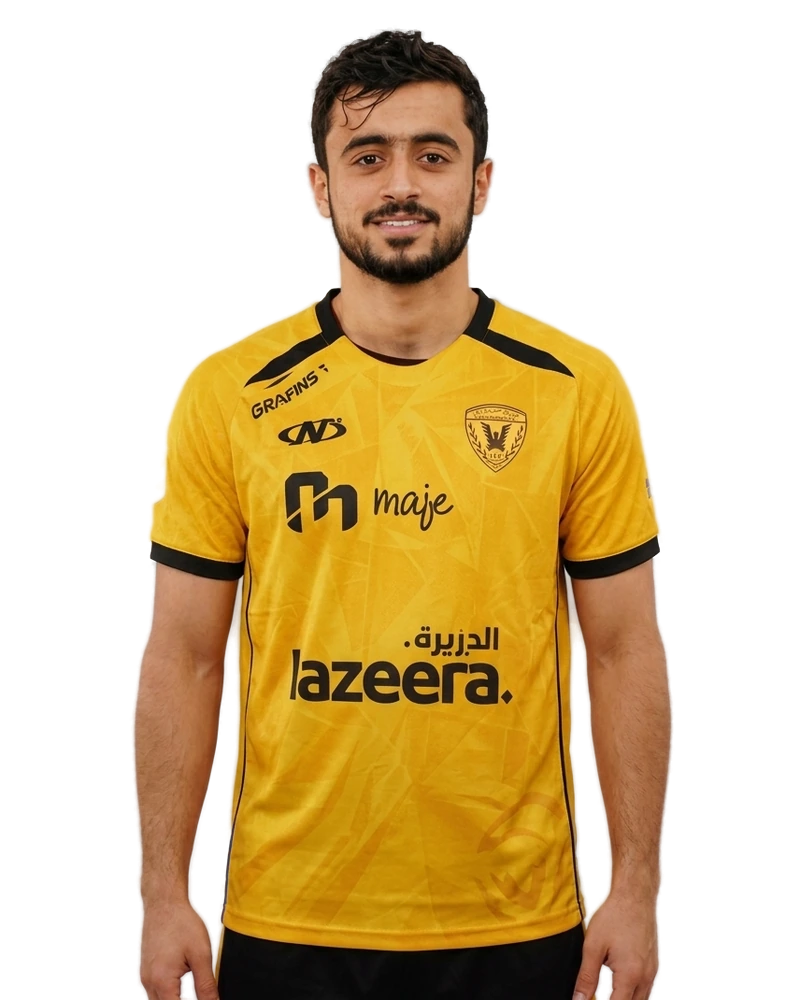
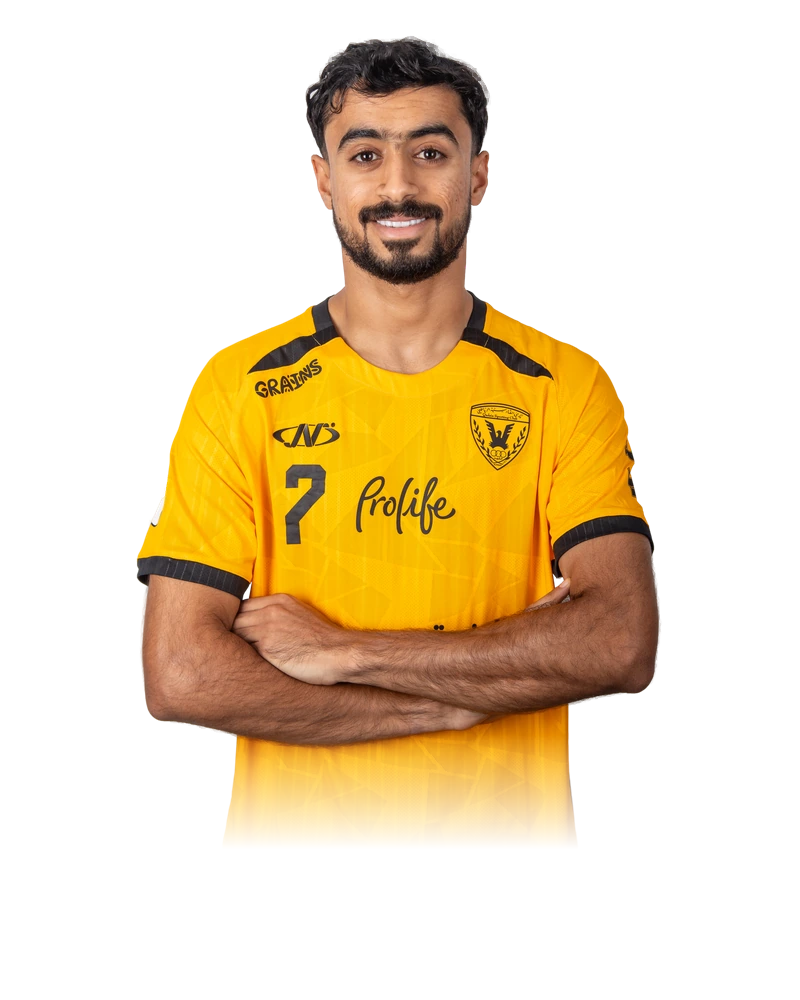
القادسية: صورة ناصر الرواحي الجديدة من جلسة تصوير النادي (رقم 7) + نسخة _m — صور ?v=35، PLAYER_PHOTOS_VER 35، sw -358

diff --git a/analysis.js b/analysis.js
@@ -28,7 +28,7 @@ const norm = s => String(s||"").normalize("NFKC")
   .toLowerCase().replace(/\s+/g," ").trim();
 function face(n, c, cls){
   let cut=null; try{ cut=(PHOTOSON && typeof LOCAL_PHOTOS!=="undefined") ? photoCut(n,c) : null; }catch(e){}
-  return `<span class="ax-face${cls?" "+cls:""}">${cut?`<img src="${cut}_f.webp?v=34" alt="" loading="lazy" decoding="async">`:`<i>${H(initials(n))}</i>`}</span>`;
+  return `<span class="ax-face${cls?" "+cls:""}">${cut?`<img src="${cut}_f.webp?v=35" alt="" loading="lazy" decoding="async">`:`<i>${H(initials(n))}</i>`}</span>`;
 }
 const pbtn = (n,c,inner) => `<button type="button" class="rf-name ax-pl" data-ax-p="${H(n)}" data-ax-c="${H(c)}">${inner}</button>`;
 

diff --git a/mf-shell.js b/mf-shell.js
@@ -491,7 +491,7 @@
     const keep=safe(()=>ST_TAB);
     const ini=n=>String(n||"").split(/\s+/).slice(0,2).map(w=>w[0]||"").join("");
     const face=r=>{ const c=safe(()=>(PHOTOSON && typeof LOCAL_PHOTOS!=="undefined") ? photoCut(r.n, r.c) : null);
-      return c?`<img src="${c}_f.webp?v=34" alt="" loading="lazy" decoding="async">`:`<span>${esc(ini(r.n))}</span>`; };
+      return c?`<img src="${c}_f.webp?v=35" alt="" loading="lazy" decoding="async">`:`<span>${esc(ini(r.n))}</span>`; };
     const card=t=>{ let d=null; try{ ST_TAB=t.k; d=stData(); }catch(e){ console.error(e); }
       if(!d || !d.rows.length) return "";
       const fmt=v=>t.k==="mn"?v+"′":v;

diff --git a/fantasy/index.html b/fantasy/index.html
@@ -50,7 +50,7 @@
   <script src="js/engine.js?v=298"></script>
   <script src="js/coach.js?v=286"></script>
   <script src="js/ui.js?v=286"></script>
-  <script src="js/photos.js?v=286"></script>
+  <script src="js/photos.js?v=287"></script>
   <script src="js/kits.js?v=285"></script>
   <script src="js/kits-number.js?v=285"></script>
   <script src="js/moderation.js?v=285"></script>

diff --git a/sw.js b/sw.js
@@ -9,7 +9,7 @@
 
    عند كل نشر: ارفع رقم VER فتُبنى ذاكرة جديدة وتُحذف القديمة.
    ========================================================= */
-const VER   = 'mf-2026-10-08-357-anbari';
+const VER   = 'mf-2026-10-08-358-rawahi';
 const SHELL = 'shell-' + VER;
 const RUN   = 'run-'   + VER;
 

diff --git a/fantasy/js/photos.js b/fantasy/js/photos.js
@@ -4,7 +4,7 @@
 'use strict';
 
 /* رقم نسخة الصور: ارفعه عند إعادة توليد أي قصّة حتى لا يبقى المتصفح على النسخة القديمة */
-const PLAYER_PHOTOS_VER = '34';
+const PLAYER_PHOTOS_VER = '35';
 
 const PLAYER_PHOTOS = {
   // الصليبخات (17)
